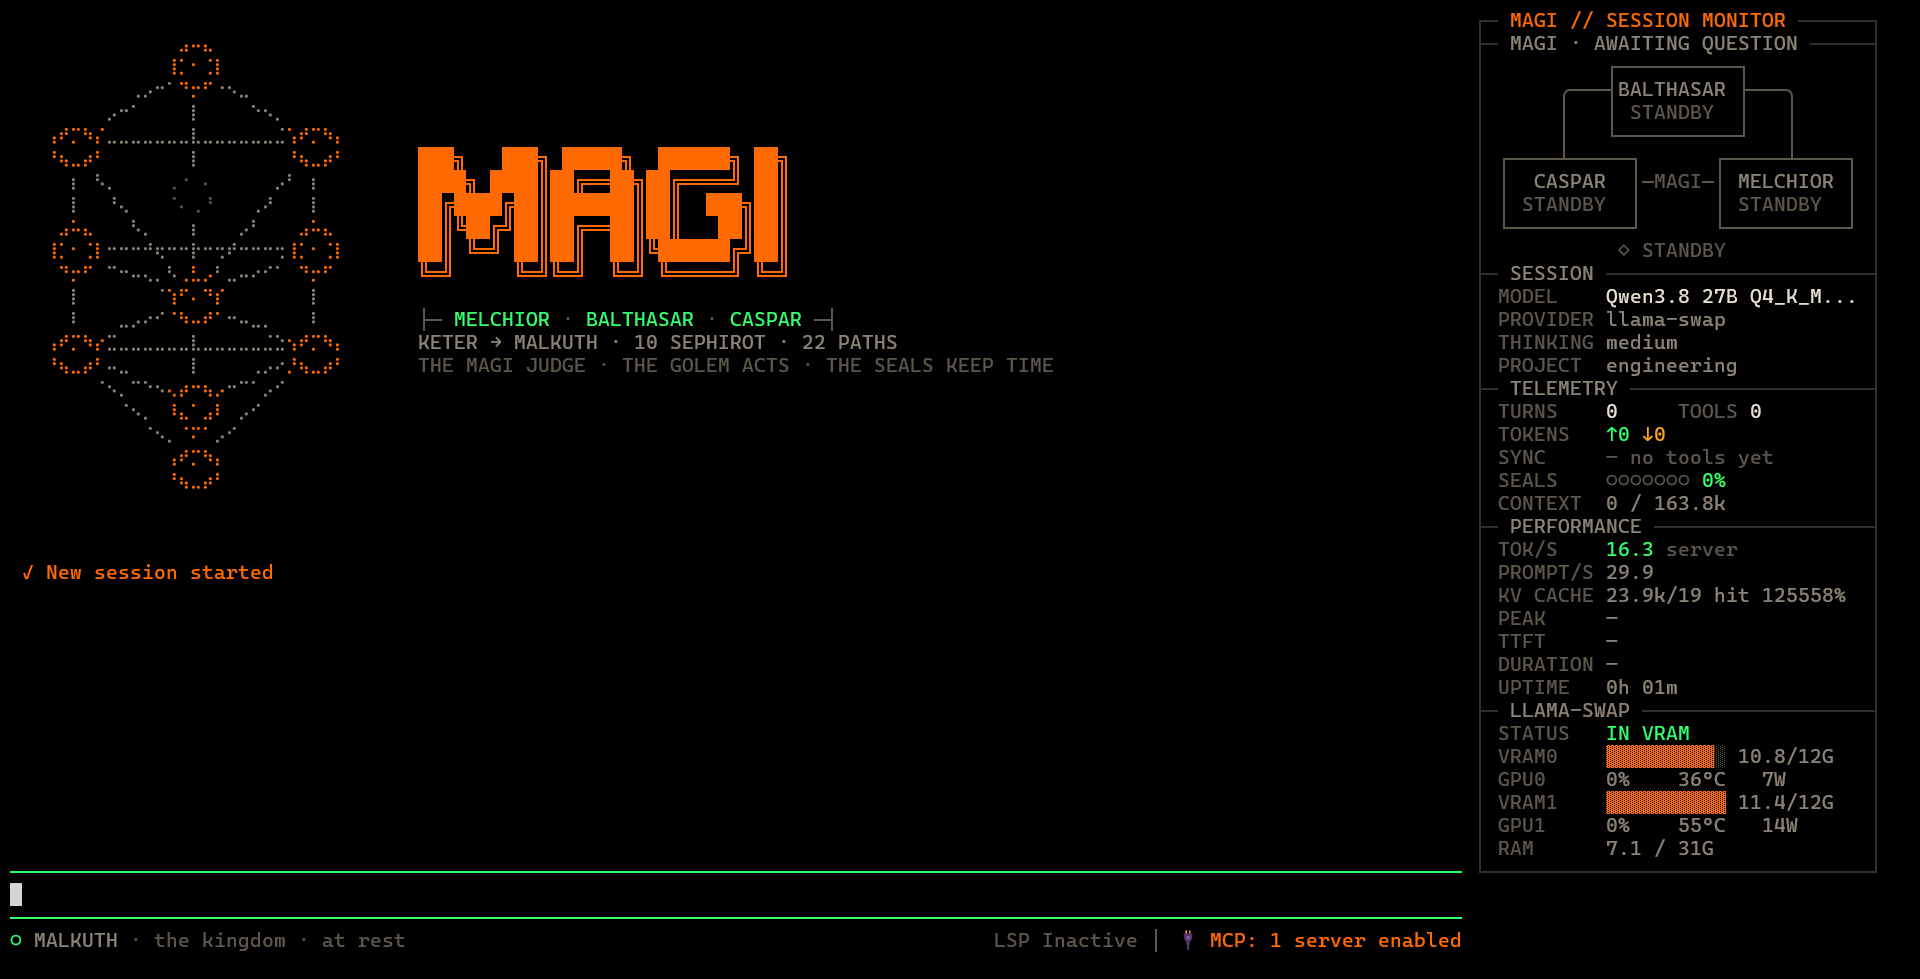
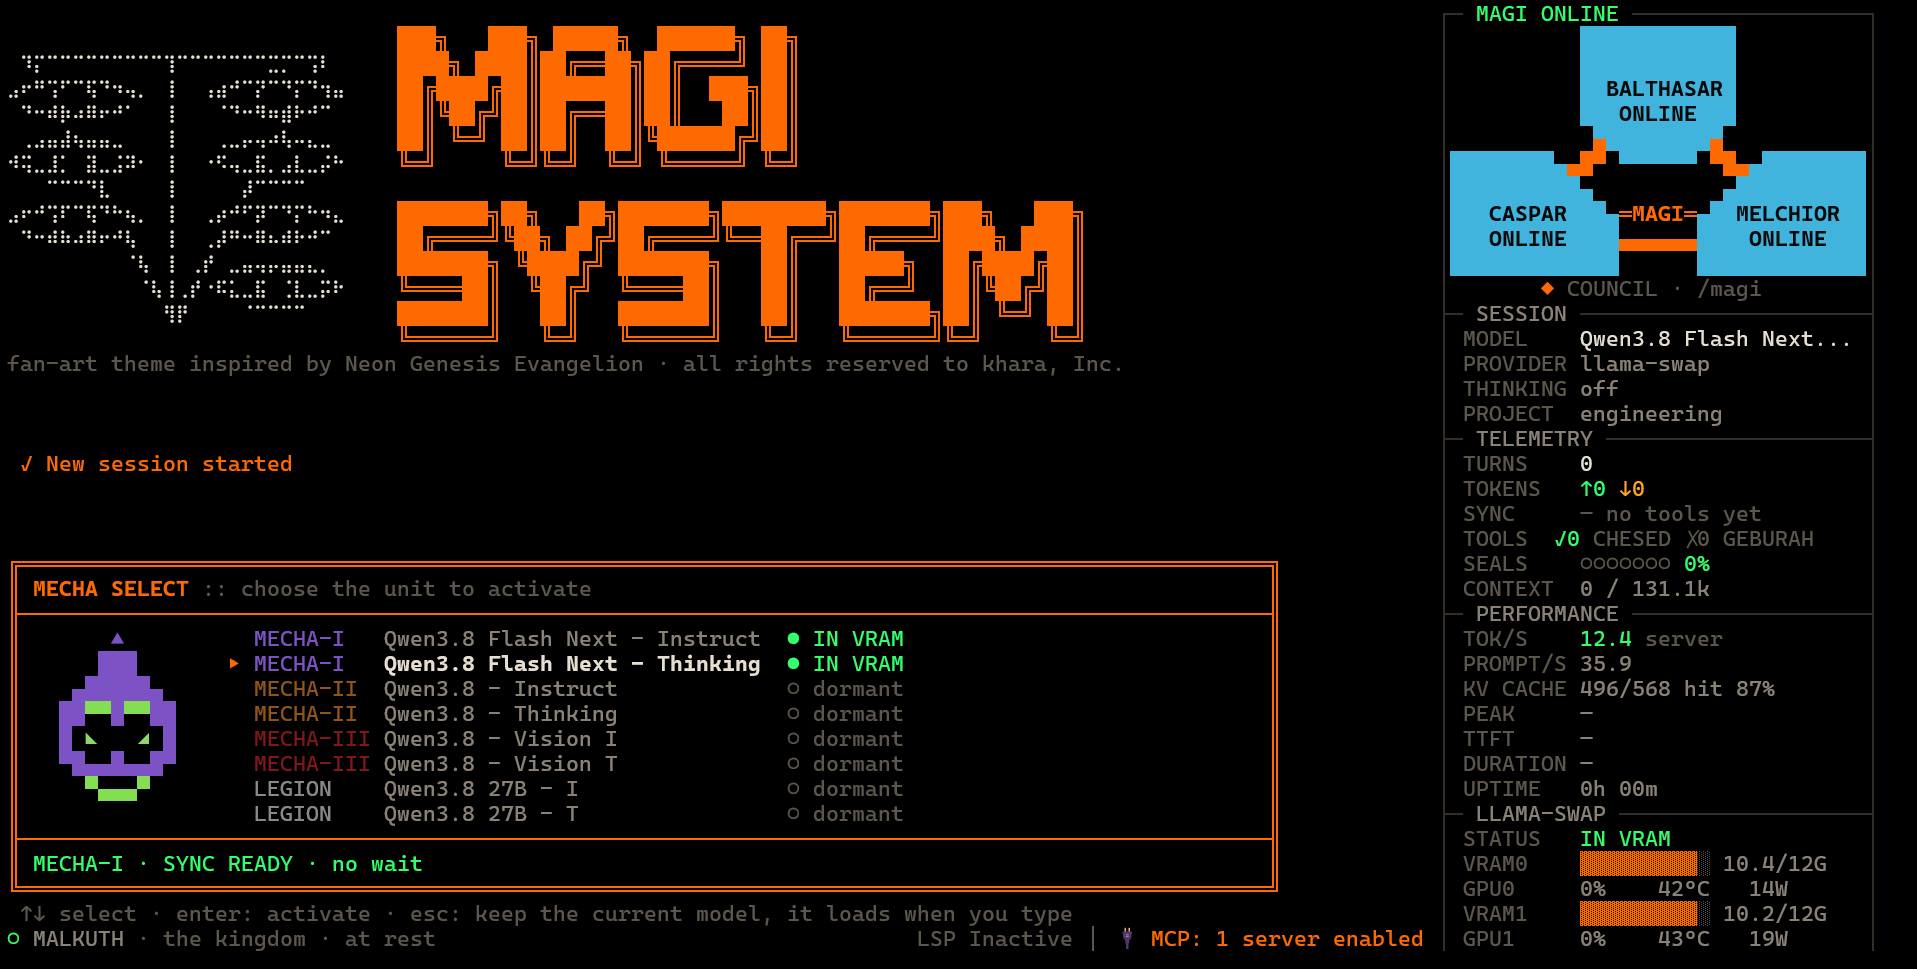
New screenshots: MAGI SYSTEM with MECHA SELECT, angel attack

diff --git a/README.md b/README.md
@@ -4,9 +4,9 @@ A three-mind council theme + extension for [pi](https://pi.dev): a MAGI SYSTEM h
 
 Fan-art theme inspired by Neon Genesis Evangelion: the MAGI and their screen belong to their creators, all rights reserved to khara, Inc. This project is not affiliated with them. The rest of the symbolism (the Tree of Life, the golem, the seven seals) is public domain.
 
-![pi with the MAGI theme: MAGI SYSTEM header, side panel with the MAGI screen and llama-swap telemetry](https://raw.githubusercontent.com/b-iurea/pi-magi-theme/main/docs/screenshot.png)
+![pi with the MAGI theme: MAGI SYSTEM header, MECHA SELECT model picker, side panel with the MAGI screen and llama-swap telemetry](https://raw.githubusercontent.com/b-iurea/pi-magi-theme/main/docs/screenshot.png)
 
-![The MAGI deliberating while the model thinks](https://raw.githubusercontent.com/b-iurea/pi-magi-theme/main/docs/deliberation.png)
+![The angel attack: red spreads through the MAGI while the model loads into VRAM](https://raw.githubusercontent.com/b-iurea/pi-magi-theme/main/docs/angel-attack.png)
 
 ## Install
 
